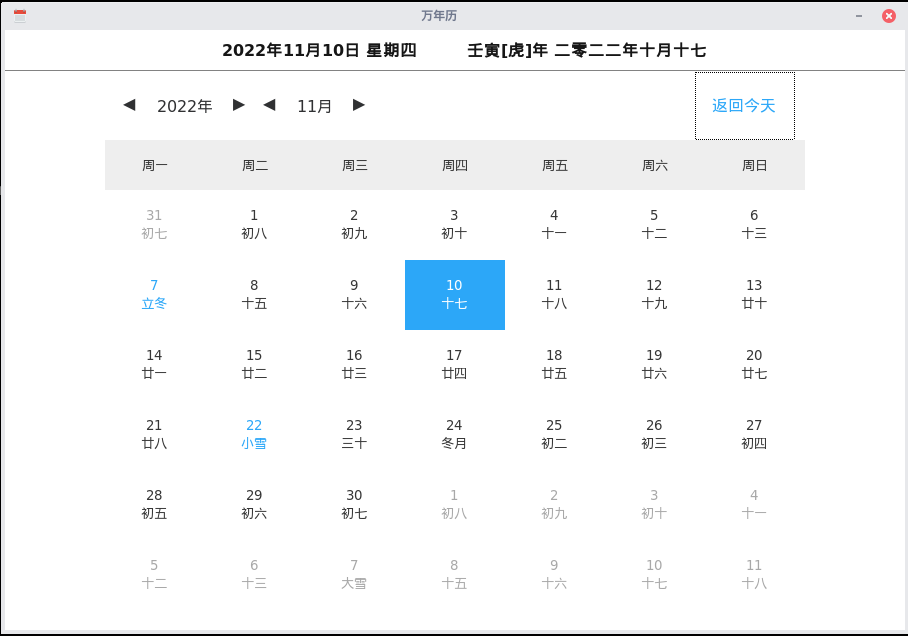
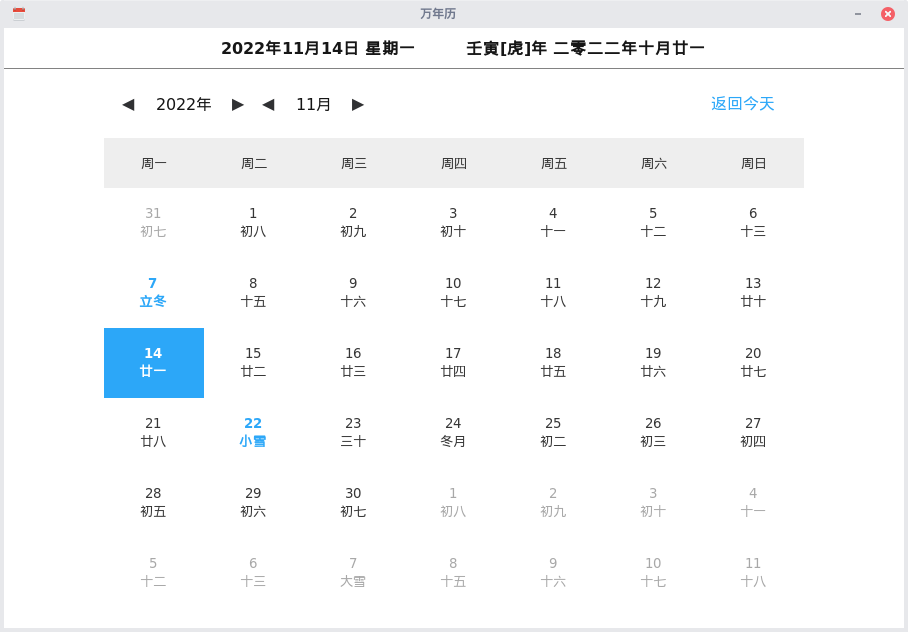
兼容win和linux

diff --git a/lunar.py b/lunar.py
@@ -3,10 +3,10 @@
 
 from tkinter import *
 from tkinter import ttk
-import os,sys,platform
+import os
 from lunardata import *
 
-__author__ = {'name' : 'TestPoo', 'created' : '2022-05-05', 'modify' : '2022-11-10'}
+__author__ = {'name' : 'TestPoo', 'created' : '2022-05-05', 'modify' : '2022-11-14'}
 
 #**实现界面功能****
 class Application_ui(Frame):
@@ -22,7 +22,7 @@ class Application_ui(Frame):
         top.resizable(False,False)
         curWidth = 900
         curHeight = 600
-        scnWidth,scnHeight = top.maxsize() # 获取屏幕宽度和高度
+        scnWidth,scnHeight = top.maxsize()
         tmpplace = '%dx%d+%d+%d'%(curWidth,curHeight,(scnWidth-curWidth)/2,(scnHeight-curHeight)/2)
         top.geometry(tmpplace)
         top.iconphoto(False, PhotoImage(file=os.getcwd() + '/calendar.png'))
@@ -33,92 +33,58 @@ class Application_ui(Frame):
         self.cdate,self.clunar,self.cweek,self.cday = show_month(datetime.now().year, datetime.now().month, datetime.now().day)
 
         self.style = ttk.Style()
-        self.style.configure("Pn.TButton",foreground="#303133",background="#fff",borderwidth=0,font=('Helvetica',12),justify='center',relief=FLAT)
-        self.style.configure("To.TButton",foreground="#2ca7f8",background="#fff",borderwidth=0,font=('Microsoft YaHei',12),justify='center',relief=FLAT)
+        self.style.theme_use('default')
+        self.style.configure("Pn.TButton",foreground="#303133",background="#fff",borderwidth=0,font=('',12),justify='center',relief=FLAT)
+        self.style.configure("To.TButton",foreground="#2ca7f8",background="#fff",borderwidth=0,font=('',12),justify='center',relief=FLAT)
+        self.style.configure("Yd.TLabel",foreground="#161616",background="#fff",borderwidth=0,font=('',12,'bold'),anchor='center')
+        self.style.configure("Ym.TLabel",foreground="#161616",background="#fff",borderwidth=0,font=('',12),anchor='center')
 
-        Label(top, text=self.cdate + " "*10 + self.clunar,anchor='center',fg="#161616",bg="#fff",font=('Microsoft YaHei',12,'bold')).place(x=110,y=0,width=700,height=40)
+        ttk.Label(top, text=self.cdate + " "*10 + self.clunar,style="Yd.TLabel").place(x=110,y=0,width=700,height=40)
         ttk.Separator(top,orient=HORIZONTAL).place(x=0,y=40,width=900,height=2)
 
-        if platform.system() == 'Windows':
-            self.preYear = Button(top,text="◀",command = self.pre_year,fg="#303133",bg="#fff",bd=0,font=('Helvetica',12))
-            self.nextYear = Button(top,text="▶",command = self.next_year,fg="#303133",bg="#fff",bd=0,font=('Helvetica',12))
-            self.preMonth = Button(top,text="◀",command = self.pre_month,fg="#303133",bg="#fff",bd=0,font=('Helvetica',12))
-            self.nextMonth = Button(top,text="▶",command = self.next_month,fg="#303133",bg="#fff",bd=0,font=('Helvetica',12))
-            self.today = Button(top,text="返回今天",command = self.today,fg="#2ca7f8",bg="#fff",bd=0,font=('Microsoft YaHei',12))
-        elif platform.system() == 'Linux':
-            self.preYear = ttk.Button(top,text="◀",command = self.pre_year,style="Pn.TButton")
-            self.nextYear = ttk.Button(top,text="▶",command = self.next_year,style="Pn.TButton")
-            self.preMonth = ttk.Button(top,text="◀",command = self.pre_month,style="Pn.TButton")
-            self.nextMonth = ttk.Button(top,text="▶",command = self.next_month,style="Pn.TButton")
-            self.today = ttk.Button(top,text="返回今天",command = self.today,style="To.TButton")
-
-        self.preYear.place(x=110,y=42,width=30,height=68)
-        self.cyear = Label(top, text=self.cdate[0:5],anchor='center',fg="#303133",bg="#fff",font=('Microsoft YaHei',12))
+        self.preYear = ttk.Button(top,text="◀",command = self.pre_year,style="Pn.TButton").place(x=110,y=42,width=30,height=68)
+        self.cyear = ttk.Label(top, text=self.cdate[0:5],style="Ym.TLabel")
         self.cyear.place(x=140,y=42,width=80,height=68)
-        self.nextYear.place(x=220,y=42,width=30,height=68)
-        self.preMonth.place(x=250,y=42,width=30,height=68)
-        self.cmonth = Label(top, text=self.cdate[5:8],anchor='center',fg="#303133",bg="#fff",font=('Microsoft YaHei',12))
+        self.nextYear = ttk.Button(top,text="▶",command = self.next_year,style="Pn.TButton").place(x=220,y=42,width=30,height=68)
+        self.preMonth = ttk.Button(top,text="◀",command = self.pre_month,style="Pn.TButton").place(x=250,y=42,width=30,height=68)
+        self.cmonth = ttk.Label(top, text=self.cdate[5:8],style="Ym.TLabel")
         self.cmonth.place(x=280,y=42,width=60,height=68)
-        self.nextMonth.place(x=340,y=42,width=30,height=68)
-        self.today.place(x=690,y=42,width=100,height=68)
+        self.nextMonth = ttk.Button(top,text="▶",command = self.next_month,style="Pn.TButton").place(x=340,y=42,width=30,height=68)
+        self.today = ttk.Button(top,text="返回今天",command = self.today,style="To.TButton").place(x=690,y=42,width=100,height=68)
 
         for i in range(len(self.cweek)):
-            Label(top,text='周' + self.cweek[i],anchor='center',fg="#363636",bg="#eee",font=('Microsoft YaHei',10)).place(x=100 + 100*i,y=110,width=100,height=50)
+            Label(top,text='周' + self.cweek[i],anchor='center',fg="#363636",bg="#eee",font=('',10)).place(x=100 + 100*i,y=110,width=100,height=50)
         
         self.button_list = []
         self.addButton(self.cday)
         
     def addButton(self,cday):
 
-        self.style.configure(".TButton",foreground="#fff",background="#2ca7f8",borderwidth=0,font=('Microsoft YaHei',10),justify='center',relief=FLAT)
-        self.style.configure("*.TButton",foreground="#a8a8a8",background="#fff",borderwidth=0,font=('Microsoft YaHei',10),justify='center',relief=FLAT)
-        self.style.configure("@.TButton",foreground="#e7493e",background="#fff",borderwidth=0,font=('Microsoft YaHei',10),justify='center',relief=FLAT)
-        self.style.configure("$.TButton",foreground="#2ca7f8",background="#fff",borderwidth=0,font=('Microsoft YaHei',10),justify='center',relief=FLAT)
-        self.style.configure("A.TButton",foreground="#363636",background="#fff",borderwidth=0,font=('Microsoft YaHei',10),justify='center',relief=FLAT)
+        self.style.configure(".TButton",foreground="#fff",background="#2ca7f8",borderwidth=0,font=('',10,'bold'),justify='center',relief=FLAT)
+        self.style.configure("*.TButton",foreground="#a8a8a8",background="#fff",borderwidth=0,font=('',10),justify='center',relief=FLAT)
+        self.style.configure("@.TButton",foreground="#e7493e",background="#fff",borderwidth=0,font=('',10,'bold'),justify='center',relief=FLAT)
+        self.style.configure("$.TButton",foreground="#2ca7f8",background="#fff",borderwidth=0,font=('',10,'bold'),justify='center',relief=FLAT)
+        self.style.configure("A.TButton",foreground="#363636",background="#fff",borderwidth=0,font=('',10),justify='center',relief=FLAT)
         for i in range(len(self.cday)):
             m,n = divmod(i,7)
             if cday[i].split('\n')[0].strip() == str(datetime.now().day):
-                if platform.system() == 'Windows':
-                    self.button = Button(top,text=self.cday[i],fg="#fff",bg="#2ca7f8",bd=0,font=('Microsoft YaHei',10))
-                elif platform.system() == 'Linux':
-                    self.button = ttk.Button(top,text=self.cday[i],style=".TButton")
+                self.button = ttk.Button(top,text=self.cday[i],style=".TButton")
             elif cday[i][0] == '*':
-                if platform.system() == 'Windows':
-                    self.button = Button(top,text=self.cday[i][1:],command = self.pre_month,fg="#a8a8a8",bg="#fff",bd=0,font=('Microsoft YaHei',10))
-                elif platform.system() == 'Linux':
-                    self.button = ttk.Button(top,text=self.cday[i][1:],style="*.TButton")
+                self.button = ttk.Button(top,text=self.cday[i][1:],style="*.TButton")
             elif cday[i][0] == '#':
-                if platform.system() == 'Windows':
-                    self.button = Button(top,text=self.cday[i][1:],command = self.next_month,fg="#a8a8a8",bg="#fff",bd=0,font=('Microsoft YaHei',10))
-                elif platform.system() == 'Linux':
-                    self.button = ttk.Button(top,text=self.cday[i][1:],style="*.TButton")
+                self.button = ttk.Button(top,text=self.cday[i][1:],style="*.TButton")
             elif cday[i][0] == '@':
                 if cday[i][1:].split('\n')[0] == str(datetime.now().day):
-                    if platform.system() == 'Windows':
-                        self.button = Button(top,text=self.cday[i][1:],fg="#e7493e",bg="#fff",bd=0,font=('Microsoft YaHei',10,'bold'))
-                    elif platform.system() == 'Linux':
-                        self.button = ttk.Button(top,text=self.cday[i][1:],style="@.TButton")
+                    self.button = ttk.Button(top,text=self.cday[i][1:],style="@.TButton")
                 else:
-                    if platform.system() == 'Windows':
-                        self.button = Button(top,text=self.cday[i][1:],fg="#e7493e",bg="#fff",bd=0,font=('Microsoft YaHei',10,'bold'))
-                    elif platform.system() == 'Linux':
-                        self.button = ttk.Button(top,text=self.cday[i][1:],style="@.TButton")
+                    self.button = ttk.Button(top,text=self.cday[i][1:],style="@.TButton")
             elif cday[i][0] == '$':
                 if cday[i][1:].split('\n')[0] == str(datetime.now().day):
-                    if platform.system() == 'Windows':
-                        self.button = Button(top,text=self.cday[i][1:],fg="#2ca7f8",bg="#fff",bd=0,font=('Microsoft YaHei',10,'bold'))
-                    elif platform.system() == 'Linux':
-                        self.button = ttk.Button(top,text=self.cday[i][1:],style="$.TButton")
+                    self.button = ttk.Button(top,text=self.cday[i][1:],style="$.TButton")
                 else:
-                    if platform.system() == 'Windows':
-                        self.button = Button(top,text=self.cday[i][1:],fg="#2ca7f8",bg="#fff",bd=0,font=('Microsoft YaHei',10,'bold'))
-                    elif platform.system() == 'Linux':
-                        self.button = ttk.Button(top,text=self.cday[i][1:],style="$.TButton")
+                    self.button = ttk.Button(top,text=self.cday[i][1:],style="$.TButton")
             else:
-                if platform.system() == 'Windows':
-                    self.button = Button(top,text=self.cday[i],fg="#363636",bg="#fff",bd=0,font=('Microsoft YaHei',10))
-                elif platform.system() == 'Linux':
-                    self.button = ttk.Button(top,text=self.cday[i],style="A.TButton")
+                self.button = ttk.Button(top,text=self.cday[i],style="A.TButton")
             self.button.place(x=100 + 100*n,y=160+70*m,width=100,height=70)
             self.button_list.append(self.button)
 
@@ -126,9 +92,6 @@ class Application_ui(Frame):
 class Application(Application_ui):
     def __init__(self, master=None):
         Application_ui.__init__(self, master)
-
-    def close(self, event=None):
-        top.destroy()
 
     def pre_year(self, event=None):
         for b in self.button_list:
@@ -187,5 +150,4 @@ class Application(Application_ui):
 
 if __name__ == "__main__":
     top = Tk()
-    #top.resizable(width=False, height=False)
     Application(top).mainloop()
